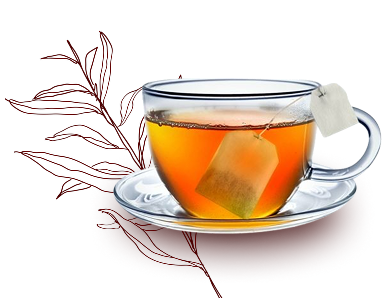
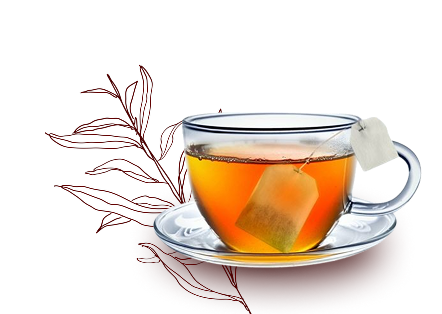
fix: adjust image position

diff --git a/web/css/drinks.css b/web/css/drinks.css
@@ -15,10 +15,6 @@
     margin-bottom: 20px;
 }
 
-.drinks-img {
-    overflow: hidden;
-}
-
 .drinks-img img {
     transition: transform 0.4s ease;
 }
@@ -41,6 +37,7 @@
     justify-content: center;
     gap: 60px;
     margin-top: 20px;
+    align-items: flex-end;
 }
 
 .kopi-items {
@@ -48,15 +45,19 @@
     display: flex;
     flex-direction: column;
     position: relative;
+    padding-top: 120px;
+    height: 480px;
+    justify-content: flex-end;
 }
 
 .price-tag {
     position: absolute;
     background: #899064;
-    top: 50px;
+    top: 100px;
     right: 30px;
     padding: 8px 20px;
     border-radius: 15px;
+    z-index: 5;
 }
 
 p.price {
@@ -65,11 +66,6 @@ p.price {
 
 .price-tag p.subtitle {
     color: var(--white);
-}
-
-.kopi-items .drinks-img {
-    margin-top: 100px;
-    margin-bottom: auto;
 }
 
 .kopi-items h5 {
@@ -82,6 +78,8 @@ p.price {
 
 .kopi-items .price-tag {
     top: 30px;
+    right: 30px;
+    z-index: 5;
 }
 
 /*Teh section*/
